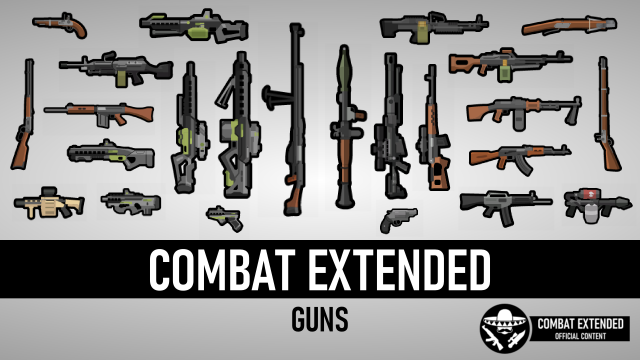
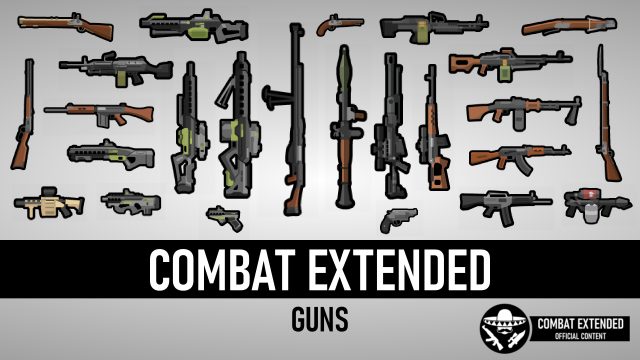
Add the Flintlock Blunderbuss and other tweaks

Changed region(s): [[0.9062, 0.1222, 0.9688, 0.5194], [0.0312, 0.0306, 0.1875, 0.1222], [0.4688, 0.0306, 0.5625, 0.0917]]

diff --git a/README.md b/README.md
@@ -34,6 +34,7 @@ This mod adds several new firearms designed to take advantage of new CE mechanic
 ### Other
 - Crossbow
 - Flintlock pistol
+- Flintlock blunderbuss
 - Flintlock musket
 - Flamethrower
 - 105mm Howitzer
